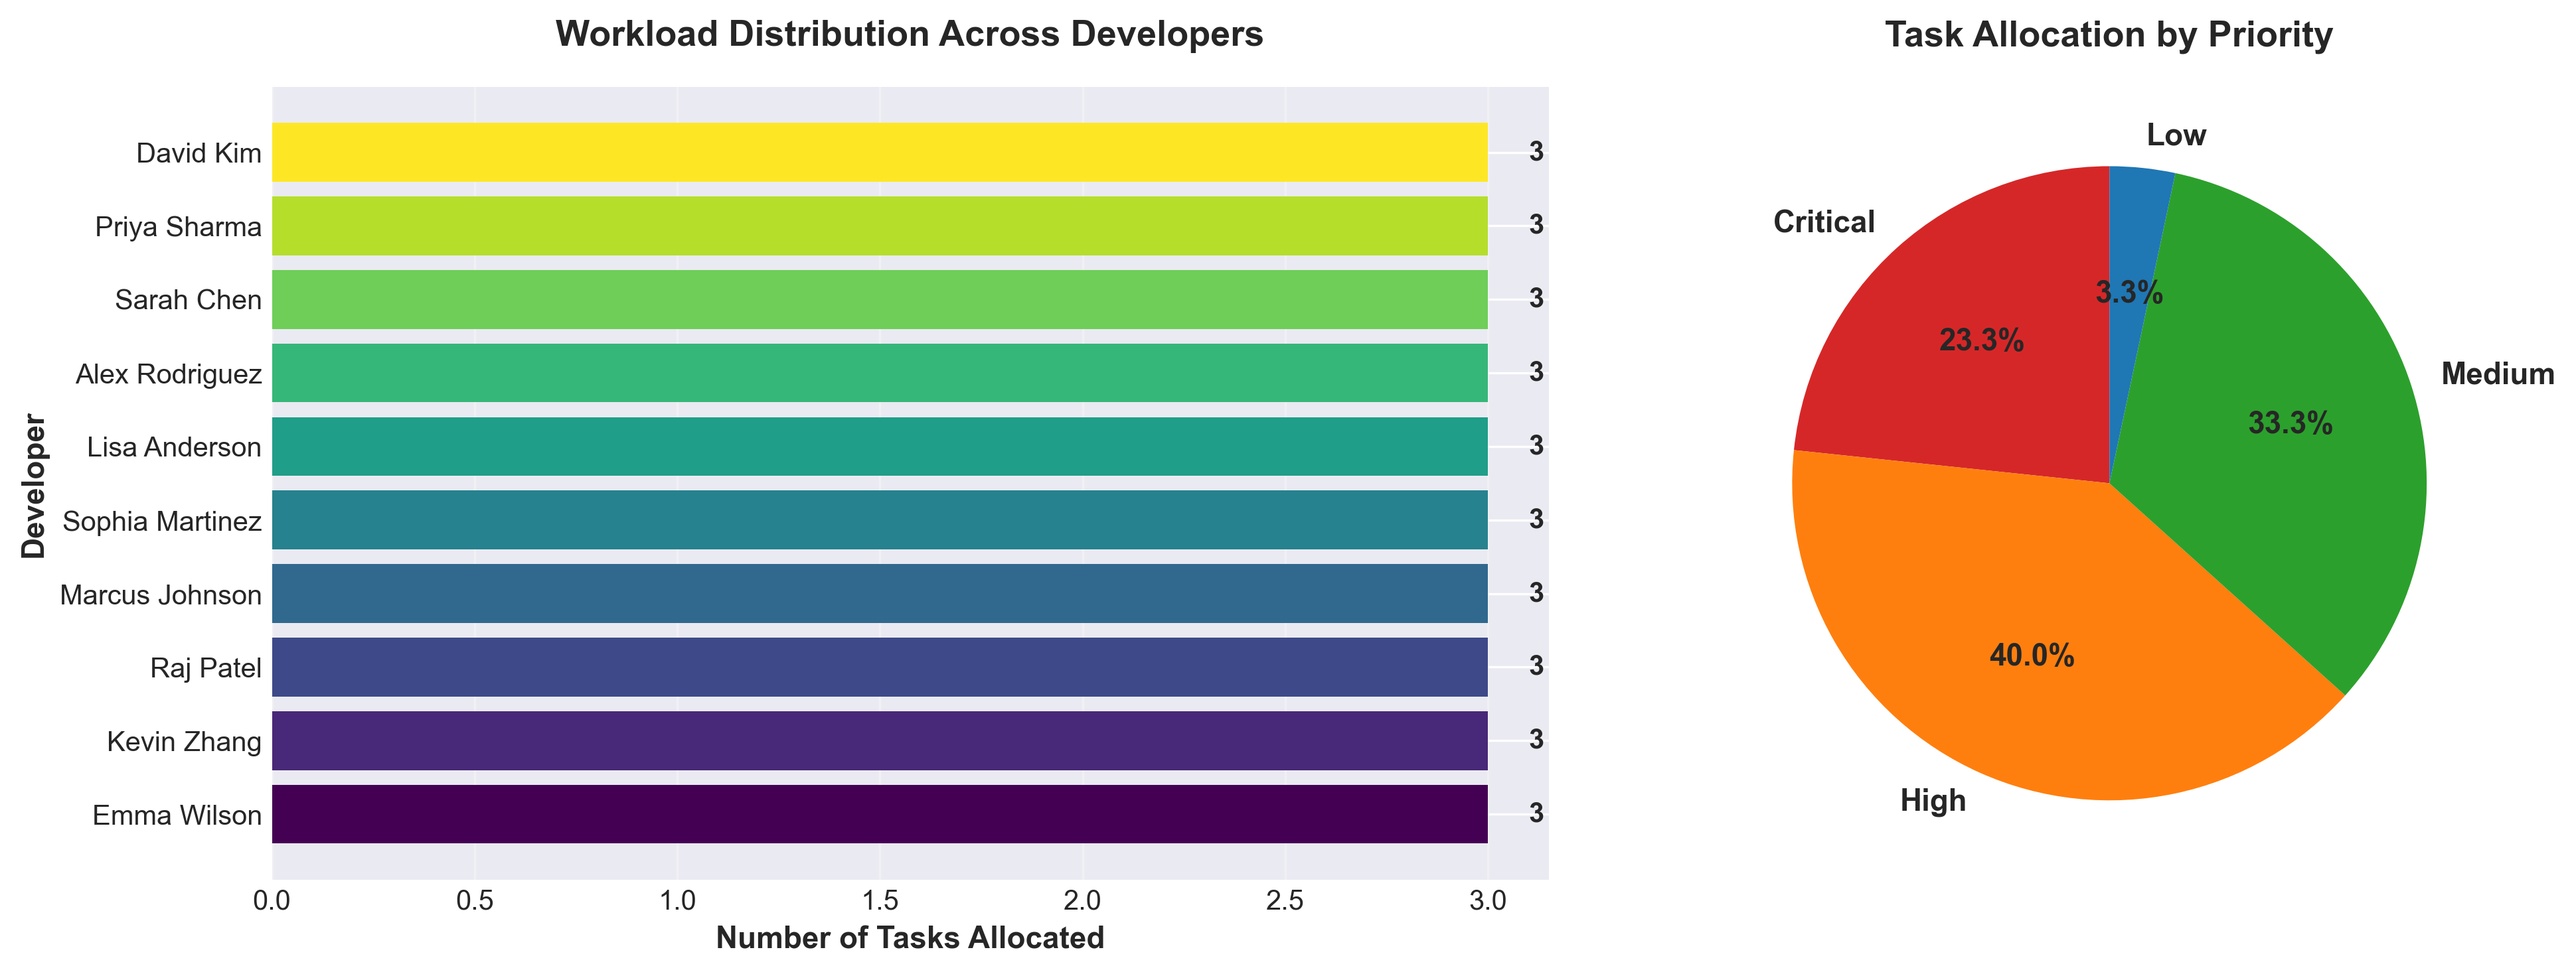
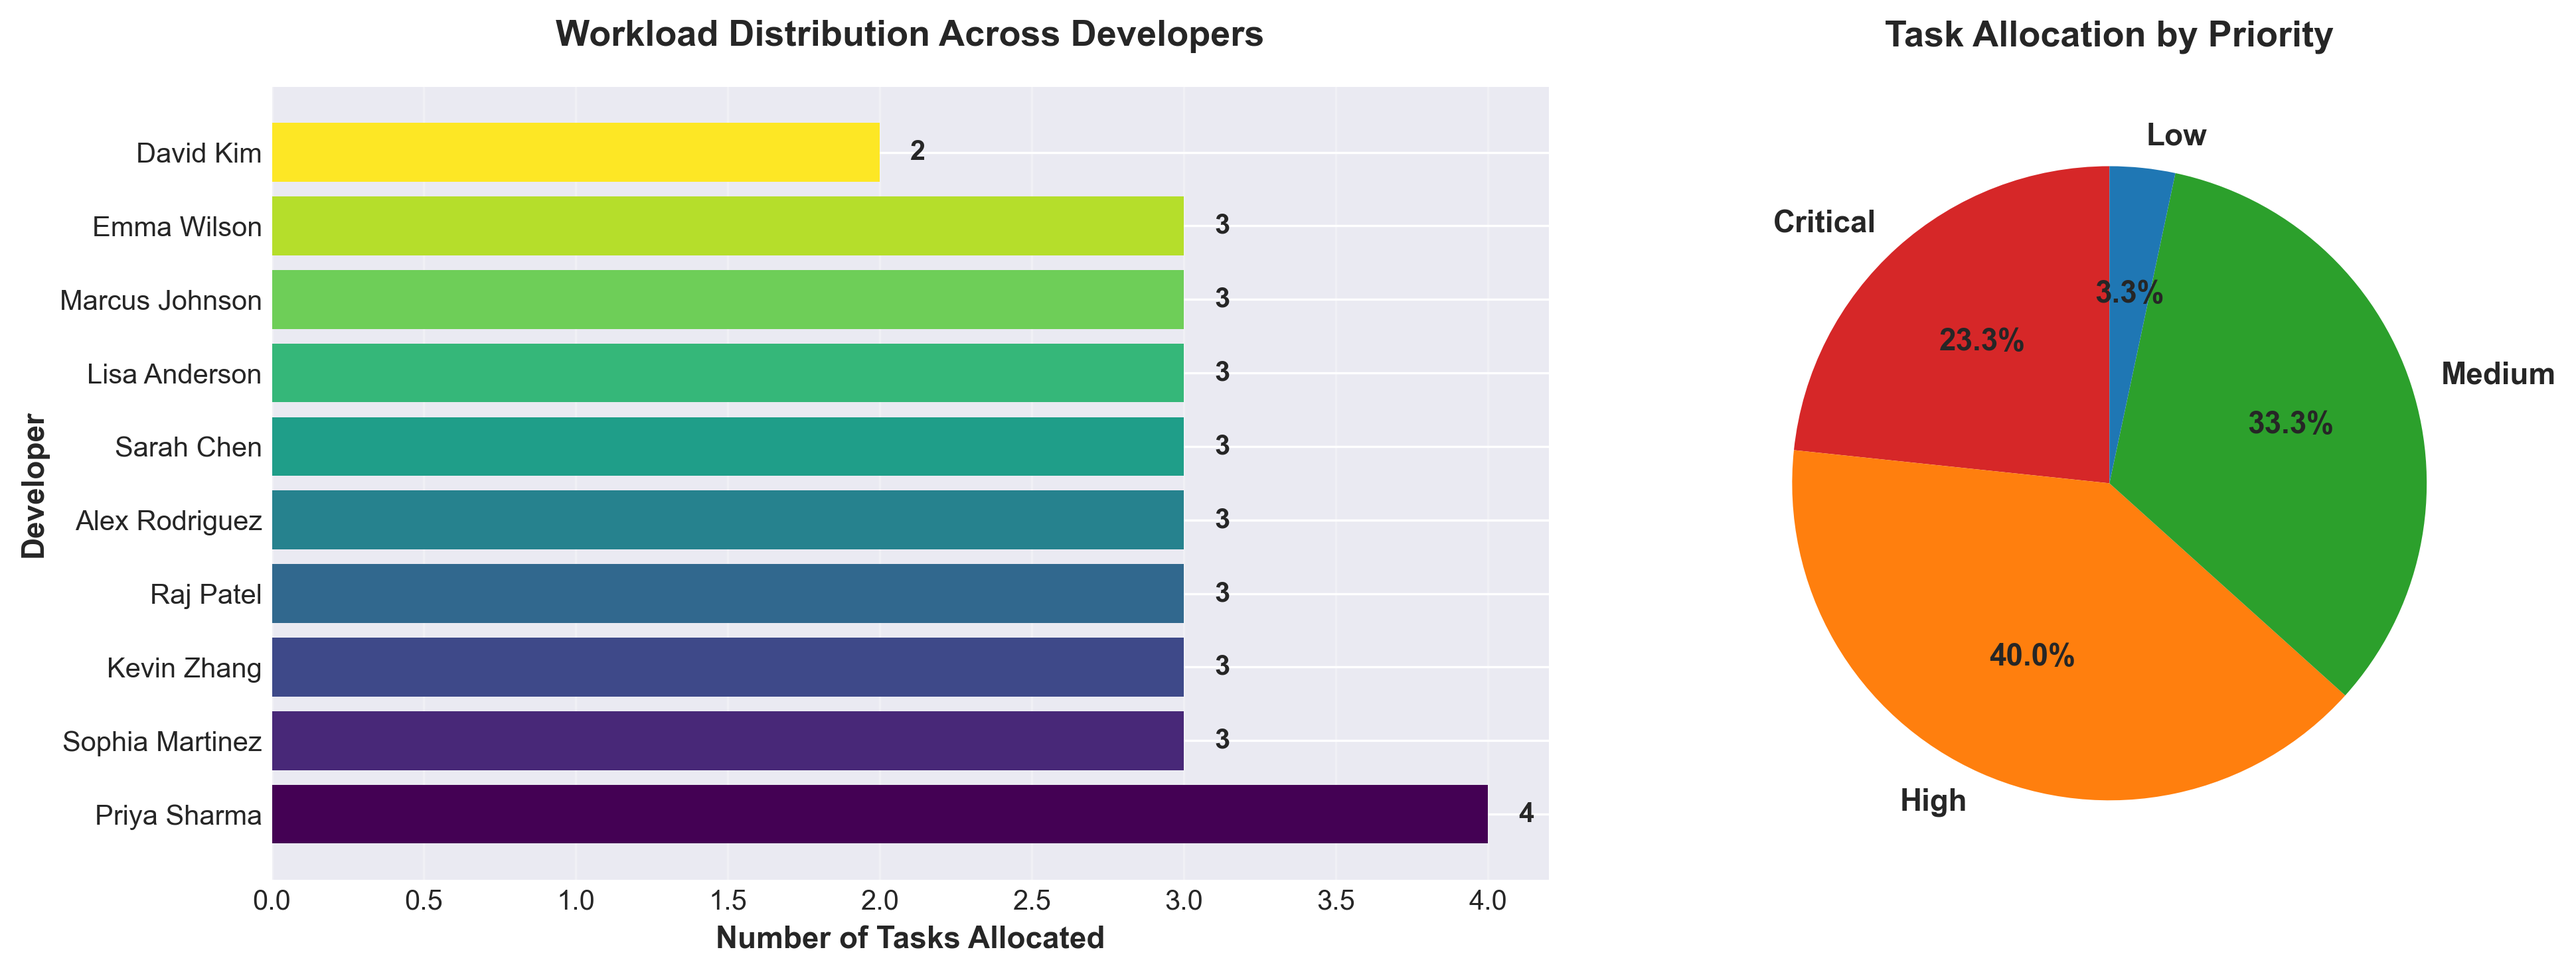
fixed loggers in app.py - non event

diff --git a/app.py b/app.py
@@ -24,7 +24,7 @@ output_dir = Path('visualizations')
 output_dir.mkdir(exist_ok=True)
 
 print("Creating visualizations...")
-print("="*70)
+print("=" * 70)
 
 # Load data
 developers_df = pd.read_csv('data/developers.csv')
@@ -71,7 +71,7 @@ ax2.set_title('Task Allocation by Priority', fontsize=13, fontweight='bold', pad
 
 plt.tight_layout()
 plt.savefig(output_dir / '1_task_distribution.png', dpi=300, bbox_inches='tight')
-print(f"   ✓ Saved: {output_dir / '1_task_distribution.png'}")
+print(f"Saved: {output_dir / '1_task_distribution.png'}")
 
 # ============================================================================
 # 2. CONFIDENCE SCORES ANALYSIS
@@ -107,7 +107,7 @@ for bar in bars:
 
 plt.tight_layout()
 plt.savefig(output_dir / '2_confidence_analysis.png', dpi=300, bbox_inches='tight')
-print(f"   ✓ Saved: {output_dir / '2_confidence_analysis.png'}")
+print(f"Saved: {output_dir / '2_confidence_analysis.png'}")
 
 # ============================================================================
 # 3. TECHNOLOGY EXPERTISE HEATMAP
@@ -145,7 +145,7 @@ ax.set_ylabel('Developer', fontsize=11, fontweight='bold')
 
 plt.tight_layout()
 plt.savefig(output_dir / '3_technology_heatmap.png', dpi=300, bbox_inches='tight')
-print(f"   ✓ Saved: {output_dir / '3_technology_heatmap.png'}")
+print(f"Saved: {output_dir / '3_technology_heatmap.png'}")
 
 # ============================================================================
 # 4. GRAPH STRUCTURE VISUALIZATION
@@ -214,7 +214,7 @@ ax.axis('off')
 
 plt.tight_layout()
 plt.savefig(output_dir / '4_graph_structure.png', dpi=300, bbox_inches='tight')
-print(f"   ✓ Saved: {output_dir / '4_graph_structure.png'}")
+print(f"Saved: {output_dir / '4_graph_structure.png'}")
 
 # ============================================================================
 # 5. COMPLEXITY vs CONFIDENCE
@@ -251,18 +251,18 @@ ax.grid(alpha=0.3)
 
 plt.tight_layout()
 plt.savefig(output_dir / '5_complexity_vs_confidence.png', dpi=300, bbox_inches='tight')
-print(f"   ✓ Saved: {output_dir / '5_complexity_vs_confidence.png'}")
+print(f"Saved: {output_dir / '5_complexity_vs_confidence.png'}")
 
 # ============================================================================
 # SUMMARY
 # ============================================================================
-print("\n" + "="*70)
-print("✅ ALL VISUALIZATIONS CREATED SUCCESSFULLY!")
-print("="*70)
+print("\n" + "=" * 70)
+print("ALL VISUALIZATIONS CREATED SUCCESSFULLY!")
+print("=" * 70)
 print(f"\nGenerated {len(list(output_dir.glob('*.png')))} visualizations in '{output_dir}/' directory:")
 for img in sorted(output_dir.glob('*.png')):
-    print(f"   📊 {img.name}")
-print("\n" + "="*70)
+    print(f"   {img.name}")
+print("\n" + "=" * 70)
 
 if __name__ == "__main__":
-    print("\n✨ Visualization Dashboard Complete!")
+    print("\nVisualization Dashboard Complete!")
